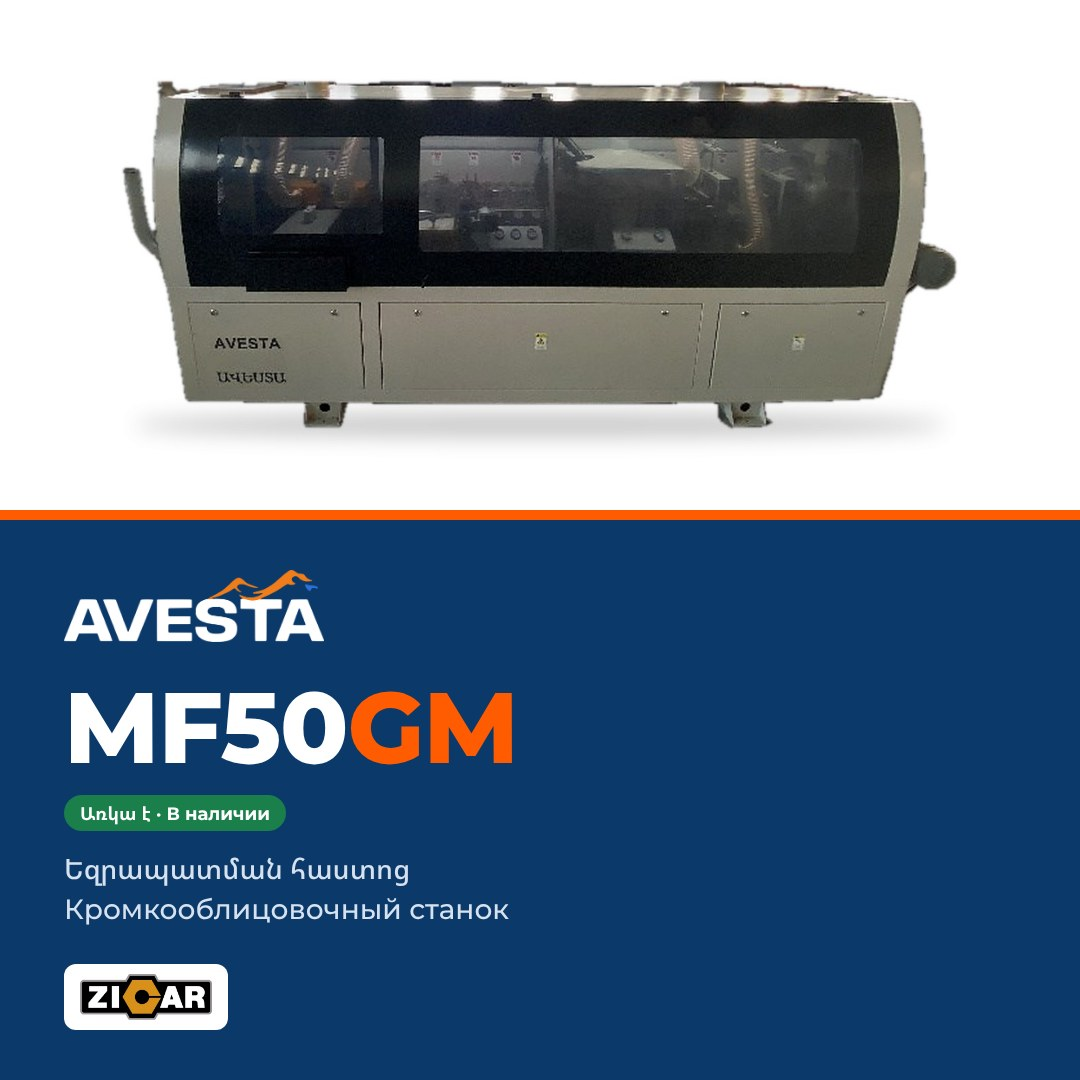
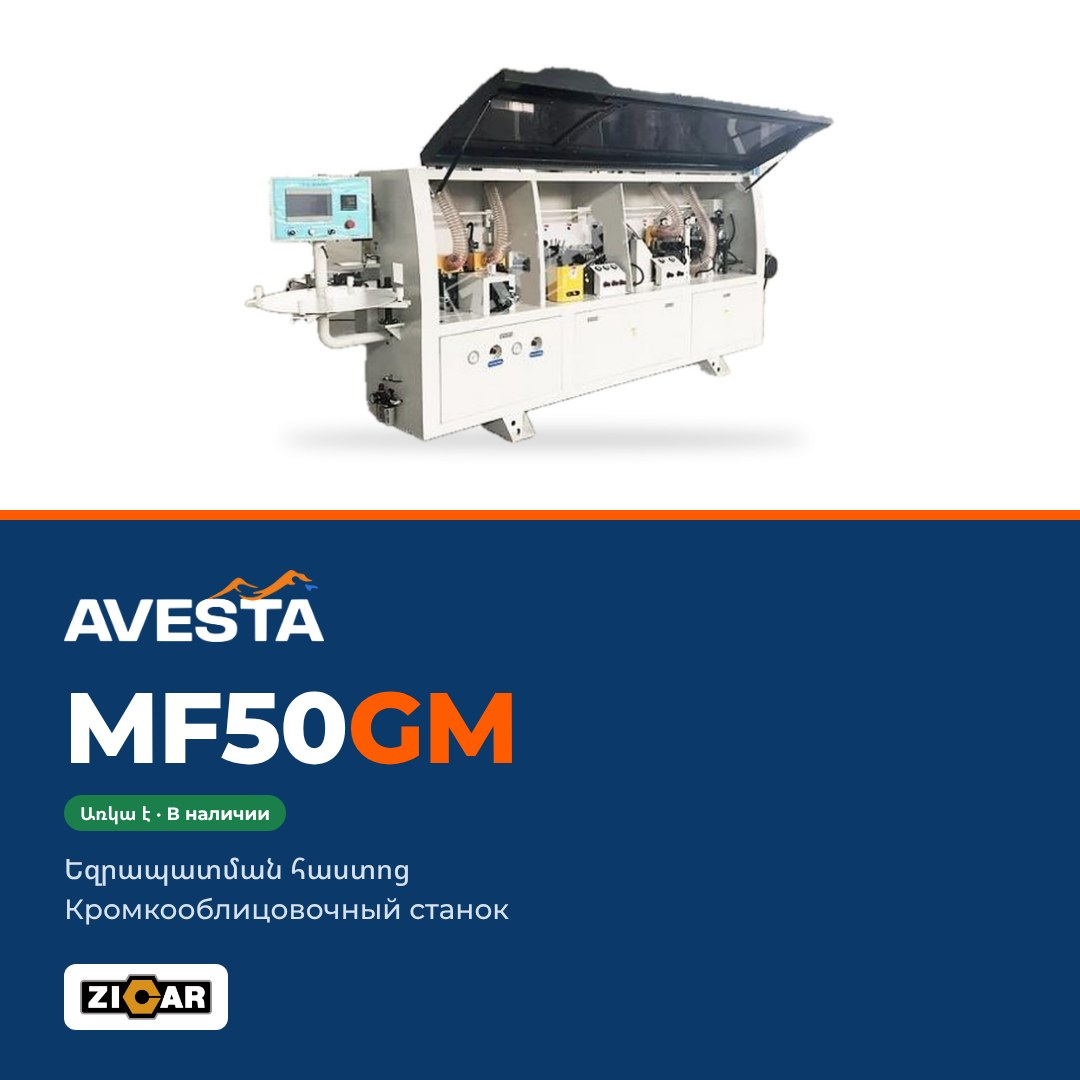
MF50GM: new full-machine photo without background (hero + cards)
Claude-Session: https://claude.ai/code/session_01DBquQubdbDLjKPGwprjYCp

Changed region(s): [[0.0917, 0.0611, 0.8861, 0.4278]]

diff --git a/mf50gm/index.html b/mf50gm/index.html
@@ -226,7 +226,7 @@ footer .wrap{display:flex;justify-content:space-between;gap:16px;flex-wrap:wrap;
         <a class="btn" href="#spec" data-i18n="cta_spec">Характеристики</a>
       </div>
     </div>
-    <div class="hero-img"><img src="img/hero.jpg" alt="ZICAR MF50GM AVESTA" width="1300" height="860"></div>
+    <div class="hero-img"><img src="img/hero.jpg" alt="ZICAR MF50GM AVESTA" width="1300" height="948"></div>
   </div>
 </section>
 
